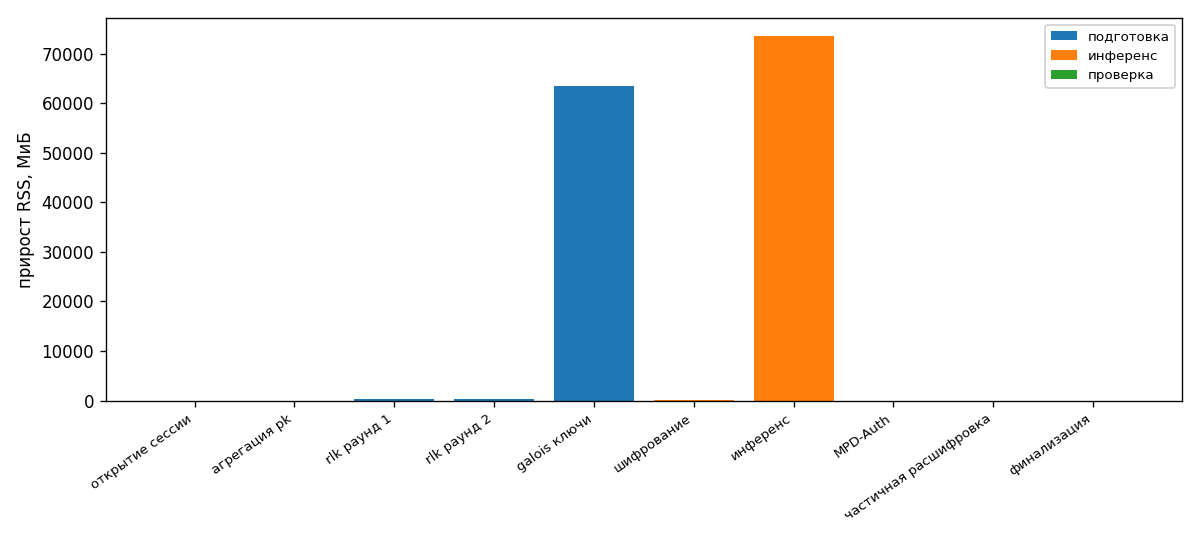
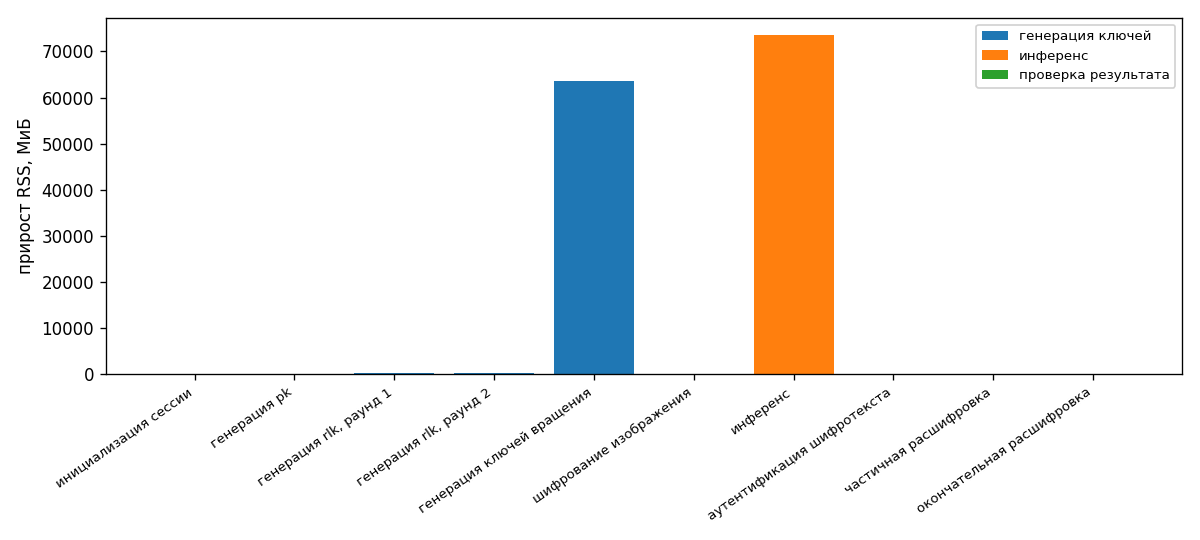
bench: align Russian plot labels to docs/protocol.puml
Use the canonical PUML terminology:
- 'клиент верификации' / 'сервис верификации' / 'агент верификации'
- 'инициализация сессии', 'генерация pk', 'генерация rlk (раунд 1/2)',
  'генерация ключей вращения', 'шифрование изображения', 'инференс',
  'аутентификация шифротекста', 'частичная расшифровка',
  'окончательная расшифровка'.

The per-party table now shows the Russian step name in the step column
instead of the internal key. Plot legend updated to match.

Re-aggregated results/20260516T002209Z/summary.md + plots/ to pick up
the new labels (the JSON inputs are unchanged).

diff --git a/bench/bench/_labels_ru.py b/bench/bench/_labels_ru.py
@@ -1,49 +1,64 @@
 """Russian labels for bench plots and summary tables.
 
-Edit the right-hand strings below; the left-hand keys are stable and used by
-``plots_eval`` and ``eval`` aggregator. Keep English abbreviations for
-cryptographic artefacts (pk, rlk, glk, sk_c, sk_a, mac_key, sid, params).
+The defaults below are derived from ``docs/protocol.puml`` (the canonical
+sequence diagram). Edit the right-hand strings to taste; the left-hand
+keys are stable and used by ``plots_eval`` and the ``eval`` aggregator.
+Keep English abbreviations for cryptographic artefacts (pk, rlk, glk,
+sk_c, sk_a, mac_key, sid, params) per the user convention.
 
 After editing, regenerate plots without rerunning the protocol:
 
-    python -m bench.eval --aggregate-only path/to/results/<ts>/
+    cd bench
+    uv run python -m bench.eval --aggregate-only ../results/<ts>/
 
-The aggregator + plots_eval import from this module at runtime, so changes
-take effect on the next replot without any rebuild.
+The aggregator + plots_eval import from this module at runtime, so
+changes take effect on the next replot without any rebuild.
+
+Mapping from protocol.puml section headers to step keys:
+    keygen.open     ← "Инициализация сессии верификации"
+    keygen.pk       ← "Генерация открытого ключа"
+    keygen.rlk-r1   ← "Генерация ключа релинеаризации (раунд 1)"
+    keygen.rlk-r2   ← "Генерация ключа релинеаризации (раунд 2)"
+    keygen.galois   ← "Генерация ключей вращения"
+    encrypt         ← "Захват и шифрование изображения"
+    infer           ← "Инференс на зашифрованных данных"
+    mac             ← "Создание аутентифицированного шифротекста"
+    partial-decrypt ← "Частичная расшифровка" + "Noise flooding"
+    finalize        ← "Окончательная расшифровка" + "Проверка аутентичности"
+                      + "Вычисление вердикта верификации"
 """
 
 from __future__ import annotations
 
-# Step / sub-step display names. Used as bar / row labels in plots and
-# in the summary.md tables.
+# Step / sub-step display names — short Russian phrasings derived from
+# protocol.puml section headers. Plot bars are tight on space, so each
+# value is kept to ~3 words max.
 STEP_NAMES: dict[str, str] = {
-    # collaborative keygen sub-rounds (joint, no single party)
     "keygen": "генерация ключей",
-    "keygen.open": "открытие сессии",
-    "keygen.pk": "агрегация pk",
-    "keygen.rlk-r1": "rlk раунд 1",
-    "keygen.rlk-r2": "rlk раунд 2",
-    "keygen.galois": "galois ключи",
-    # per-image protocol steps
-    "encrypt": "шифрование",
+    "keygen.open": "инициализация сессии",
+    "keygen.pk": "генерация pk",
+    "keygen.rlk-r1": "генерация rlk, раунд 1",
+    "keygen.rlk-r2": "генерация rlk, раунд 2",
+    "keygen.galois": "генерация ключей вращения",
+    "encrypt": "шифрование изображения",
     "infer": "инференс",
-    "mac": "MPD-Auth",
+    "mac": "аутентификация шифротекста",
     "partial-decrypt": "частичная расшифровка",
-    "finalize": "финализация",
+    "finalize": "окончательная расшифровка",
 }
 
-# Party display names (for swim-lane Gantt rows and per-party tables).
+# Party display names — derived from protocol.puml actor declarations
+# (`participant "..." as ...`). Used for swim-lane Gantt rows and the
+# per-party memory table. Short enough to fit on the y-axis.
 PARTY_NAMES: dict[str, str] = {
-    "client": "клиент",
-    "service": "сервис",
-    "agent": "агент",
+    "client": "клиент верификации",
+    "service": "сервис верификации",
+    "agent": "агент верификации",
     "joint": "совместно",
 }
 
-# Axis / legend / table-header strings. Keys are internal; values are
-# user-visible Russian text. Free to rephrase.
+# Axis / legend / table-header strings.
 AXIS: dict[str, str] = {
-    # x / y axes
     "wall_ms": "время выполнения, мс",
     "wall_s": "время выполнения, с",
     "delta_rss_mib": "прирост RSS, МиБ",
@@ -56,22 +71,20 @@ AXIS: dict[str, str] = {
     "transfer_seconds": "время передачи, с",
     "session_seconds": "время сессии, с",
     "session_ms": "время сессии, мс",
-    # gantt lane label
     "party_lane": "сторона",
-    # message column
     "message_name": "сообщение",
 }
 
 # Legend entries (Gantt + macro-phase colours).
 LEGEND: dict[str, str] = {
     "compute": "вычисления",
-    "transfer": "передача",
-    "setup_compute": "подготовка (вычисления)",
+    "transfer": "передача по сети",
+    "setup_compute": "генерация ключей (вычисления)",
     "inference_compute": "инференс (вычисления)",
     "verify_compute": "проверка (вычисления)",
-    "macro_setup": "подготовка",
+    "macro_setup": "генерация ключей",
     "macro_inference": "инференс",
-    "macro_verify": "проверка",
+    "macro_verify": "проверка результата",
 }
 
 # Per-step → party mapping (used for the swim-lane Gantt row assignment
@@ -91,8 +104,10 @@ PARTY_BY_STEP: dict[str, str] = {
 }
 
 # Producer → consumer mapping for the per-image transfer arrows in the
-# session-timeline Gantt. Each tuple is (sender_party, receiver_party,
-# artifact_filename). The artifact is sized via os.stat at aggregate time.
+# session-timeline Gantt. Mirrors the message flow in protocol.puml's
+# inference + verifiable-decryption sections. Each tuple is
+# (sender_party, receiver_party, artifact_filename); the artifact is
+# sized via os.stat at aggregate time.
 TRANSFERS_PER_IMAGE: tuple[tuple[str, str, str], ...] = (
     ("client", "service", "input_ct.bin"),
     ("service", "agent", "result_ct.bin"),

diff --git a/bench/bench/eval.py b/bench/bench/eval.py
@@ -36,7 +36,7 @@ from typing import Any
 
 import numpy as np
 
-from bench._labels_ru import PARTY_BY_STEP, PARTY_NAMES
+from bench._labels_ru import PARTY_BY_STEP, PARTY_NAMES, STEP_NAMES
 from bench.load import Run, Sample, load_run
 
 logger = logging.getLogger(__name__)
@@ -504,7 +504,11 @@ def _party_step_table_md(
 
     keygen_total_ms = sum(s.wall_ms for s in keygen_run.samples)
     joint = PARTY_NAMES["joint"]
-    total_row = f"| {joint} | keygen (total) | 1 | {_format_ms(keygen_total_ms)} | - | - | - |"
+    total_label = f"{STEP_NAMES['keygen']} (всего)"
+    total_row = (
+        f"| {joint} | {total_label} | 1 | "
+        f"{_format_ms(keygen_total_ms)} | - | - | - |"
+    )
     lines.append(total_row)
     for substep in _KEYGEN_SUBSTEPS:
         matching = [s for s in keygen_run.samples if s.name == substep]
@@ -512,8 +516,9 @@ def _party_step_table_md(
         delta, hwm = _rss_stats(matching)
         n = len(matching)
         party = PARTY_NAMES[PARTY_BY_STEP.get(substep, "joint")]
+        label = STEP_NAMES.get(substep, substep)
         lines.append(
-            f"| {party} | &nbsp;&nbsp;{substep} | {n} | "
+            f"| {party} | &nbsp;&nbsp;{label} | {n} | "
             f"{_format_ms(mean)} | {_format_ms(p95)} | "
             f"{_format_mib(delta)} | {_format_mib(hwm)} |"
         )
@@ -524,8 +529,9 @@ def _party_step_table_md(
         delta, hwm = _rss_stats(samples)
         n = len(samples)
         party = PARTY_NAMES[PARTY_BY_STEP.get(step, "joint")]
+        label = STEP_NAMES.get(step, step)
         lines.append(
-            f"| {party} | {step} | {n} | "
+            f"| {party} | {label} | {n} | "
             f"{_format_ms(mean)} | {_format_ms(p95)} | "
             f"{_format_mib(delta)} | {_format_mib(hwm)} |"
         )

diff --git a/results/20260516T002209Z/summary.md b/results/20260516T002209Z/summary.md
@@ -6,97 +6,97 @@
 
 ## Per-step time + memory by party
 
-| party | step | n | mean wall ms | p95 wall ms | mean delta RSS MiB | peak VM HWM MiB |
-|---|---|---:|---:|---:|---:|---:|
-| совместно | keygen (total) | 1 | 172729.64 | - | - | - |
-| совместно | &nbsp;&nbsp;keygen.open | 1 | 41.17 | 41.17 | 0.0 | 1996.5 |
-| совместно | &nbsp;&nbsp;keygen.pk | 1 | 152.28 | 152.28 | 0.0 | 1996.7 |
-| совместно | &nbsp;&nbsp;keygen.rlk-r1 | 1 | 715.59 | 715.59 | 273.6 | 2270.3 |
-| совместно | &nbsp;&nbsp;keygen.rlk-r2 | 1 | 280.73 | 280.73 | 308.4 | 2578.7 |
-| совместно | &nbsp;&nbsp;keygen.galois | 1 | 171539.87 | 171539.87 | 63489.5 | 66068.3 |
-| клиент | encrypt | 10 | 116.38 | 123.72 | 26.4 | 121.5 |
-| сервис | infer | 10 | 247538.24 | 253777.96 | 73570.5 | 117946.9 |
-| агент | mac | 10 | 1298.91 | 1331.45 | 0.6 | 42817.3 |
-| клиент | partial-decrypt | 10 | 4.16 | 4.28 | 0.4 | 77.8 |
-| агент | finalize | 10 | 7.34 | 7.86 | 0.7 | 77.8 |
+| party              | step                                  |   n | mean wall ms | p95 wall ms | mean delta RSS MiB | peak VM HWM MiB |
+| ------------------ | ------------------------------------- | --: | -----------: | ----------: | -----------------: | --------------: |
+| совместно          | генерация ключей (всего)              |   1 |    172729.64 |           - |                  - |               - |
+| совместно          | &nbsp;&nbsp;инициализация сессии      |   1 |        41.17 |       41.17 |                0.0 |          1996.5 |
+| совместно          | &nbsp;&nbsp;генерация pk              |   1 |       152.28 |      152.28 |                0.0 |          1996.7 |
+| совместно          | &nbsp;&nbsp;генерация rlk, раунд 1    |   1 |       715.59 |      715.59 |              273.6 |          2270.3 |
+| совместно          | &nbsp;&nbsp;генерация rlk, раунд 2    |   1 |       280.73 |      280.73 |              308.4 |          2578.7 |
+| совместно          | &nbsp;&nbsp;генерация ключей вращения |   1 |    171539.87 |   171539.87 |            63489.5 |         66068.3 |
+| клиент верификации | шифрование изображения                |  10 |       116.38 |      123.72 |               26.4 |           121.5 |
+| сервис верификации | инференс                              |  10 |    247538.24 |   253777.96 |            73570.5 |        117946.9 |
+| агент верификации  | аутентификация шифротекста            |  10 |      1298.91 |     1331.45 |                0.6 |         42817.3 |
+| клиент верификации | частичная расшифровка                 |  10 |         4.16 |        4.28 |                0.4 |            77.8 |
+| агент верификации  | окончательная расшифровка             |  10 |         7.34 |        7.86 |                0.7 |            77.8 |
 
 _delta RSS = vm_hwm - pre_vm_hwm = the step's incremental memory growth. Peak VM HWM = high-water mark of the resident set at step exit. Keygen sub-rounds share one process, so each row's pre_vm_hwm is the previous row's vm_hwm; the delta for `keygen.galois` is the marginal cost of the Galois-key round on top of the prior PK + RLK state. Per-image steps each spawn a fresh process, so their delta RSS is the true per-call peak._
 
 ## Per-message bytes
 
-| message | bytes | KiB | MiB |
-|---|---:|---:|---:|
-| keys/glk_full.bin | 22284736438 | 21762437.9 | 21252.38 |
-| keys/glk_master.bin | 22284736438 | 21762437.9 | 21252.38 |
-| keys/mac_key.bin | 302 | 0.3 | 0.00 |
-| keys/params.json | 508 | 0.5 | 0.00 |
-| keys/pk.bin | 23069064 | 22528.4 | 22.00 |
-| keys/rlk.bin | 69207232 | 67585.2 | 66.00 |
-| keys/sid.txt | 32 | 0.0 | 0.00 |
-| keys/sk_a.bin | 11534528 | 11264.2 | 11.00 |
-| keys/sk_c.bin | 11534528 | 11264.2 | 11.00 |
-| img/auth_ct.bin | 1048894 | 1024.3 | 1.00 |
-| img/client_share.bin | 524304 | 512.0 | 0.50 |
-| img/input_ct.bin | 16777774 | 16384.5 | 16.00 |
-| img/result_ct.bin | 1048894 | 1024.3 | 1.00 |
+| message              |       bytes |        KiB |      MiB |
+| -------------------- | ----------: | ---------: | -------: |
+| keys/glk_full.bin    | 22284736438 | 21762437.9 | 21252.38 |
+| keys/glk_master.bin  | 22284736438 | 21762437.9 | 21252.38 |
+| keys/mac_key.bin     |         302 |        0.3 |     0.00 |
+| keys/params.json     |         508 |        0.5 |     0.00 |
+| keys/pk.bin          |    23069064 |    22528.4 |    22.00 |
+| keys/rlk.bin         |    69207232 |    67585.2 |    66.00 |
+| keys/sid.txt         |          32 |        0.0 |     0.00 |
+| keys/sk_a.bin        |    11534528 |    11264.2 |    11.00 |
+| keys/sk_c.bin        |    11534528 |    11264.2 |    11.00 |
+| img/auth_ct.bin      |     1048894 |     1024.3 |     1.00 |
+| img/client_share.bin |      524304 |      512.0 |     0.50 |
+| img/input_ct.bin     |    16777774 |    16384.5 |    16.00 |
+| img/result_ct.bin    |     1048894 |     1024.3 |     1.00 |
 
 _Note: `glk_master.bin` and `glk_full.bin` are byte-identical today; they diverge after lattigo-hierkeys integration (master = compressed seed, full = expanded set)._
 
 ## Protocol verdict accuracy
 
-| metric | value |
-|---|---:|
-| samples (total) | 10 |
-| true positives | 0 |
-| true negatives | 5 |
-| false positives | 0 |
-| false negatives | 5 |
-| unknown | 0 |
-| FPR | 0.000 |
-| FNR | 1.000 |
-| accuracy | 0.500 |
+| metric          | value |
+| --------------- | ----: |
+| samples (total) |    10 |
+| true positives  |     0 |
+| true negatives  |     5 |
+| false positives |     0 |
+| false negatives |     5 |
+| unknown         |     0 |
+| FPR             | 0.000 |
+| FNR             | 1.000 |
+| accuracy        | 0.500 |
 
 ## Noise + SNR
 
 **Noise across all (image x non-S slot) pairs:**
 
-| stat | value |
-|---|---:|
-| samples | 640 |
-| mean | -158.122061 |
-| min | -1216.950195 |
-| max | 78.849648 |
-| std | 375.087690 |
+| stat    |        value |
+| ------- | -----------: |
+| samples |          640 |
+| mean    |  -158.122061 |
+| min     | -1216.950195 |
+| max     |    78.849648 |
+| std     |   375.087690 |
 
 **SNR per image** (`|ref_logit| / std(noise_per_slot_i)`):
 
-| idx | \|ref_logit\| | SNR |
-|---:|---:|---:|
-| 0 | 16.5628 | 356407533779.38 |
-| 1 | 1216.9502 | 25275613883523.46 |
-| 2 | 20.0280 | 466321021669.76 |
-| 3 | 408.5040 | 8288938625556.57 |
-| 4 | 10.6847 | 185564217739.82 |
-| 5 | 13.1281 | 269400445269.99 |
-| 24 | 33.4911 | 746551017348.64 |
-| 25 | 26.9990 | 633277919280.26 |
-| 35 | 7.7763 | 167396577552.53 |
-| 43 | 78.8496 | 1623578095236.61 |
+| idx | \|ref_logit\| |               SNR |
+| --: | ------------: | ----------------: |
+|   0 |       16.5628 |   356407533779.38 |
+|   1 |     1216.9502 | 25275613883523.46 |
+|   2 |       20.0280 |   466321021669.76 |
+|   3 |      408.5040 |  8288938625556.57 |
+|   4 |       10.6847 |   185564217739.82 |
+|   5 |       13.1281 |   269400445269.99 |
+|  24 |       33.4911 |   746551017348.64 |
+|  25 |       26.9990 |   633277919280.26 |
+|  35 |        7.7763 |   167396577552.53 |
+|  43 |       78.8496 |  1623578095236.61 |
 
 ## Network wire time
 
-| message | bytes | t @ 1 Mbps | t @ 10 Mbps | t @ 100 Mbps |
-|---|---:|---:|---:|---:|
-| keys/glk_full.bin | 22284736438 | 2.06 d | 4.95 h | 29.71 min |
-| keys/glk_master.bin | 22284736438 | 2.06 d | 4.95 h | 29.71 min |
-| keys/mac_key.bin | 302 | 2.4 ms | 0.2 ms | 0.0 ms |
-| keys/params.json | 508 | 4.1 ms | 0.4 ms | 0.0 ms |
-| keys/pk.bin | 23069064 | 3.08 min | 18.46 s | 1.85 s |
-| keys/rlk.bin | 69207232 | 9.23 min | 55.37 s | 5.54 s |
-| keys/sid.txt | 32 | 0.3 ms | 0.0 ms | 0.0 ms |
-| keys/sk_a.bin | 11534528 | 1.54 min | 9.23 s | 922.8 ms |
-| keys/sk_c.bin | 11534528 | 1.54 min | 9.23 s | 922.8 ms |
-| img/auth_ct.bin | 1048894 | 8.39 s | 839.1 ms | 83.9 ms |
-| img/client_share.bin | 524304 | 4.19 s | 419.4 ms | 41.9 ms |
-| img/input_ct.bin | 16777774 | 2.24 min | 13.42 s | 1.34 s |
-| img/result_ct.bin | 1048894 | 8.39 s | 839.1 ms | 83.9 ms |
+| message              |       bytes | t @ 1 Mbps | t @ 10 Mbps | t @ 100 Mbps |
+| -------------------- | ----------: | ---------: | ----------: | -----------: |
+| keys/glk_full.bin    | 22284736438 |     2.06 d |      4.95 h |    29.71 min |
+| keys/glk_master.bin  | 22284736438 |     2.06 d |      4.95 h |    29.71 min |
+| keys/mac_key.bin     |         302 |     2.4 ms |      0.2 ms |       0.0 ms |
+| keys/params.json     |         508 |     4.1 ms |      0.4 ms |       0.0 ms |
+| keys/pk.bin          |    23069064 |   3.08 min |     18.46 s |       1.85 s |
+| keys/rlk.bin         |    69207232 |   9.23 min |     55.37 s |       5.54 s |
+| keys/sid.txt         |          32 |     0.3 ms |      0.0 ms |       0.0 ms |
+| keys/sk_a.bin        |    11534528 |   1.54 min |      9.23 s |     922.8 ms |
+| keys/sk_c.bin        |    11534528 |   1.54 min |      9.23 s |     922.8 ms |
+| img/auth_ct.bin      |     1048894 |     8.39 s |    839.1 ms |      83.9 ms |
+| img/client_share.bin |      524304 |     4.19 s |    419.4 ms |      41.9 ms |
+| img/input_ct.bin     |    16777774 |   2.24 min |     13.42 s |       1.34 s |
+| img/result_ct.bin    |     1048894 |     8.39 s |    839.1 ms |      83.9 ms |
